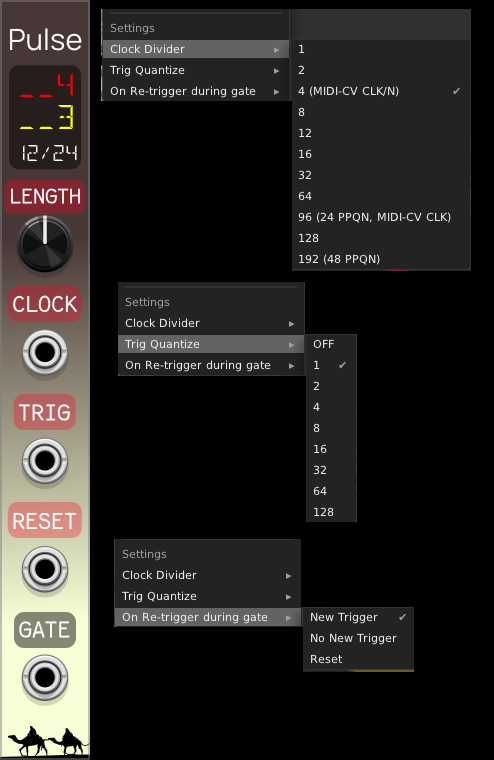
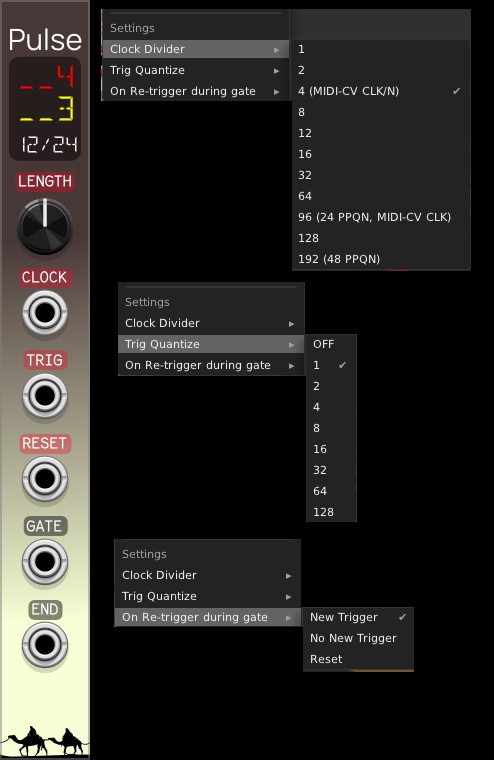
Pulse: add END output.

Changed region(s): [[0.0, 0.0605, 0.1822, 0.9382], [0.0, 0.9684, 0.0304, 0.9987]]

diff --git a/src/Pulse.cpp b/src/Pulse.cpp
@@ -20,14 +20,16 @@
 #include "components.hpp"
 #include "plugin.hpp"
 #include <string>
+#define TRIGGER_DURATION 1e-3f
 
 struct Pulse : Module {
   enum ParamIds { LEN, NUM_PARAMS };
   enum InputIds { TRIG, RESET, CLOCK, NUM_INPUTS };
-  enum OutputIds { GATE, NUM_OUTPUTS };
+  enum OutputIds { GATE, END, NUM_OUTPUTS };
   enum LightIds { NUM_LIGHTS };
   enum OnRetriggerActionIds { ON_RETRIGGER_NEW_TRIGGER, ON_RETRIGGER_NO_NEW_TRIGGER, ON_RETRIGGER_RESET};
   dsp::SchmittTrigger clockTrigger, trigTrigger[16], resetTrigger;
+  dsp::PulseGenerator endPulse[16];
   int pulseLength = 1;
   int pulseCountMod = 0;
   int clockDivider = 1;
@@ -45,11 +47,14 @@ struct Pulse : Module {
     configInput(TRIG, "TRIG");
     configInput(RESET, "RESET");
     configOutput(GATE, "GATE");
+    configOutput(END, "END");
     reset();
   }
 
   void process(const ProcessArgs &args) override {
     int channels = inputs[TRIG].getChannels();
+    outputs[GATE].setChannels(channels);
+    outputs[END].setChannels(channels);
     // LENGTH
     pulseLength = int(params[LEN].getValue());
     // CLOCK
@@ -61,13 +66,15 @@ struct Pulse : Module {
         for(int i=0; i < 16; i++) {
           // Reset the unclocked trigs that occured before the clock:
           unclockedTrigs[i] = false;
-          if (i <= channels && trigTrigger[i].process(inputs[TRIG].getPolyVoltage(i) >= 1.f)) {
+          if (i < channels && trigTrigger[i].process(inputs[TRIG].getNormalPolyVoltage(0.0, i) >= 1.f)) {
             // Handle trigs coincidential with the clock rising edge:
             trigQueue[i] = 0;
           }
           if (gateProgress[i] == pulseLength - 1) {
+            // Pulse finished:
             gateProgress[i] = -1;
           } else if (gateProgress[i] >= 0) {
+            // Pulse ongoing:
             gateProgress[i] += 1;
           }
           if (trigQueue[i] < 0) {
@@ -76,7 +83,7 @@ struct Pulse : Module {
             // Trig is scheduled, but its not time yet:
             trigQueue[i] -= 1;
           } else {
-            //Time to trig now:
+            //Time to trig now - trigQueue[i] == 0
             if (gateProgress[i] == -1 || \
                 onRetriggerAction == ON_RETRIGGER_NEW_TRIGGER) {
               gateProgress[i] = 0;
@@ -87,10 +94,18 @@ struct Pulse : Module {
           }
         }
       }
+      // END
+      if (clockCountMod == clockDivider - 1) {
+        for (int i=0; i<channels; i++) {
+          if (gateProgress[i] == pulseLength - 1) {
+            endPulse[i].trigger(TRIGGER_DURATION);
+          }
+        }
+      }
     } else {
       // Handle trigs that occur in between clock pulses:
       for (int i = 0; i < channels; i++) {
-        if (trigTrigger[i].process(inputs[TRIG].getPolyVoltage(i) >= 1.f)) {
+        if (i < channels && trigTrigger[i].process(inputs[TRIG].getNormalPolyVoltage(0.0, i) >= 1.f)) {
           trigQueue[i] = (trigQuantize < 1 ? 1 : trigQuantize) - (pulseCountMod == -1 ? 0 : pulseCountMod) - 1;
           unclockedTrigs[i] = trigQuantize == 0;
         }
@@ -100,10 +115,11 @@ struct Pulse : Module {
     if (resetTrigger.process(inputs[RESET].getNormalVoltage(0.0))) {
       reset();
     }
-    // GATE
-    outputs[GATE].setChannels(channels);
     for (int i=0; i < 16; i++) {
+      // GATE:
       outputs[GATE].setVoltage((unclockedTrigs[i] || gateProgress[i] >= 0) ? 10.f : 0.f, i);
+      // END trigger:
+      outputs[END].setVoltage(endPulse[i].process(args.sampleTime) ? 10.f : 0.f, i);
     }
   }
 
@@ -142,7 +158,7 @@ struct Pulse : Module {
 
 
 #define HP 3
-#define ROWS 14
+#define ROWS 256
 #define COLUMNS 1
 panel_grid<HP, ROWS, COLUMNS> pulseGrid;
 
@@ -187,9 +203,10 @@ struct PulseDisplay : public DynamicOverlay {
   PulseDisplay(int hp_width) : DynamicOverlay(hp_width) {}
 
   void draw(const DrawArgs &args) override {
-    Vec lengthTextLoc = pulseGrid.loc(1, 0).plus(Vec(0,8));
-    Vec pulseCountTextLoc = pulseGrid.loc(1, 0).plus(Vec(0,24));
-    Vec clockCountTextLoc = pulseGrid.loc(1,0).plus(Vec(0, 40));
+    Vec displayLoc = pulseGrid.loc(20,0).plus(Vec(0,6));
+    Vec lengthTextLoc = displayLoc.plus(Vec(0,8));
+    Vec pulseCountTextLoc = displayLoc.plus(Vec(0,24));
+    Vec clockCountTextLoc = displayLoc.plus(Vec(0, 40));
     if (module) {
       DynamicOverlay::clear();
       addText(pulsePad(module->pulseLength), 12, lengthTextLoc,
@@ -225,14 +242,16 @@ struct PulseDisplay : public DynamicOverlay {
 };
 
 struct PulseWidget : ModuleWidget {
-  Vec displayLoc = pulseGrid.loc(1,0);
-  Vec lenLoc = pulseGrid.loc(4,0);
+  Vec displayLoc = pulseGrid.loc(20,0).plus(Vec(0,6));
+  Vec lenLoc = pulseGrid.loc(76,0);
+  int o = 105;
+  int h = 28;
+  Vec clockLoc = pulseGrid.loc(o, 0);
+  Vec trigLoc = pulseGrid.loc(o+h, 0);
 
-  Vec clockLoc = pulseGrid.loc(6, 0);
-  Vec trigLoc = pulseGrid.loc(8, 0);
-
-  Vec resetLoc = pulseGrid.loc(10, 0);
-  Vec gateLoc = pulseGrid.loc(12,0);
+  Vec resetLoc = pulseGrid.loc(o+h*2, 0);
+  Vec gateLoc = pulseGrid.loc(o+h*3,0);
+  Vec endLoc = pulseGrid.loc(o+h*4,0);
   // Vec pulseDisplayTopLeft = pulseGrid.loc(, 0).minus(Vec(7,10));
   // Vec pulseDisplayBottomRight = pulseGrid.loc(3, 1).plus(Vec(3,10));
 
@@ -242,6 +261,7 @@ struct PulseWidget : ModuleWidget {
     addInput(createInputCentered<PJ301MPort>(resetLoc, module, Pulse::RESET));
     addInput(createInputCentered<PJ301MPort>(clockLoc, module, Pulse::CLOCK));
     addOutput(createOutputCentered<PJ301MPort>(gateLoc, module, Pulse::GATE));
+    addOutput(createOutputCentered<PJ301MPort>(endLoc, module, Pulse::END));
     setPanel(
              APP->window->loadSvg(asset::plugin(pluginInstance, "res/3hp.svg")));
     addParam(
@@ -253,16 +273,18 @@ struct PulseWidget : ModuleWidget {
       DynamicOverlay *overlay = new DynamicOverlay(HP);
       overlay->addText("Pulse", 20, Vec(mm2px(HP * HP_UNIT / 2), 25), WHITE,
                        CLEAR, MANROPE);
-      overlay->addText("LENGTH", 12, lenLoc.minus(Vec(0, 20)), WHITE,
-                       RED_TRANSPARENT);
-      overlay->addText("CLOCK", 13, clockLoc.minus(Vec(0, 20)), WHITE,
-                       RED_TRANSPARENT);
-      overlay->addText("TRIG", 13, trigLoc.minus(Vec(0, 20)), WHITE,
-                       RED_TRANSPARENT);
-      overlay->addText("RESET", 13, resetLoc.minus(Vec(0, 20)), WHITE,
-                       RED_TRANSPARENT);
-      overlay->addText("GATE", 13, gateLoc.minus(Vec(0, 20)), WHITE,
-                       BLACK_TRANSPARENT);
+      overlay->addText("LENGTH", 9, lenLoc.minus(Vec(0, 20)), WHITE,
+                       RED_TRANSPARENT, FANTASQUE, 0);
+      overlay->addText("CLOCK", 9, clockLoc.minus(Vec(0, 15)), WHITE,
+                       RED_TRANSPARENT, FANTASQUE, 0);
+      overlay->addText("TRIG", 9, trigLoc.minus(Vec(0, 15)), WHITE,
+                       RED_TRANSPARENT, FANTASQUE, 0);
+      overlay->addText("RESET", 9, resetLoc.minus(Vec(0, 15)), WHITE,
+                       RED_TRANSPARENT, FANTASQUE, 0);
+      overlay->addText("GATE", 9, gateLoc.minus(Vec(0, 15)), WHITE,
+                       BLACK_TRANSPARENT, FANTASQUE, 0);
+      overlay->addText("END", 9, endLoc.minus(Vec(0, 15)), WHITE,
+                       BLACK_TRANSPARENT, FANTASQUE, 0);
       buffer->addChild(overlay);
       addChild(buffer);
       overlay->addBox(displayLoc.minus(Vec(18,8)),

diff --git a/src/components.hpp b/src/components.hpp
@@ -70,6 +70,7 @@ typedef struct {
   NVGcolor color;
   int font;
   NVGcolor bgColor;
+  float padding;
 } draw_text;
 
 typedef struct {
@@ -89,12 +90,16 @@ struct DynamicOverlay : rack::TransparentWidget {
     box.size = mm2px(Vec(hp_width * HP_UNIT, HEIGHT));
   }
   void addText(std::string text, int size, rack::Vec px, NVGcolor color,
+               NVGcolor bgColor, int font, float padding) {
+    text_calls.push_back({text, size, px, color, font, bgColor, padding});
+  }
+  void addText(std::string text, int size, rack::Vec px, NVGcolor color,
                NVGcolor bgColor, int font) {
-    text_calls.push_back({text, size, px, color, font, bgColor});
+    text_calls.push_back({text, size, px, color, font, bgColor, 1.0});
   }
   void addText(std::string text, int size, rack::Vec px, NVGcolor color,
                NVGcolor bgColor) {
-    addText(text, size, px, color, bgColor, FANTASQUE);
+    addText(text, size, px, color, bgColor, FANTASQUE, 1);
   }
   void addBox(rack::Vec start, rack::Vec end, NVGcolor color, int roundness) {
     box_calls.push_back({start, end, color, roundness});
@@ -129,10 +134,17 @@ struct DynamicOverlay : rack::TransparentWidget {
     // draw background:
     if (dt.bgColor.a != 0) {
       nvgFillColor(args.vg, dt.bgColor);
-      nvgRoundedRect(args.vg, (int)bounds[0] - 2 - x_offset, (int)bounds[1] - 2,
-                     (int)(bounds[2] - bounds[0]) + 5,
-                     (int)(bounds[3] - bounds[1]) + 5,
-                     ((int)(bounds[3] - bounds[1]) - 1) / 2 - 1);
+      if (dt.padding < 1) {
+        nvgRoundedRect(args.vg, (int)bounds[0] - 1 - x_offset, (int)bounds[1],
+                       (int)(bounds[2] - 1 - bounds[0]) + 5,
+                       (int)(bounds[3] - 4 - bounds[1]) + 5,
+                       ((int)(bounds[3] - bounds[1]) - 1) / 2 - 1);
+      } else {
+        nvgRoundedRect(args.vg, (int)bounds[0] - 2 - x_offset, (int)bounds[1] - 2,
+                       (int)(bounds[2] - bounds[0]) + 5,
+                       (int)(bounds[3] - bounds[1]) + 5,
+                       ((int)(bounds[3] - bounds[1]) - 1) / 2 - 1);
+      }
       nvgFill(args.vg);
     }
     // draw text:

diff --git a/README.md b/README.md
@@ -229,50 +229,66 @@ You can download this as a [VCV Rack selection
 ### Pulse
 
 Pulse is a bank of 16 pulse generators: they turn triggers into gates
-with a clocked length. It has 16 independent trigger inputs (`TRIG`)
-and 16 gate outputs (`GATE`) via polyphonic jacks. A single `LENGTH`
-parameter controls the length of each gate (1 -> 128). Although the
-gates must all share the same length, they are triggered and held
-independently. Use the external `CLOCK` signal, and the built-in clock
-divider, and pulse will count the exact amount of time to keep each
-gate open. A shared `RESET` input will immediately reset all of the
-gates and the clock.
+with a single shared clocked length. Using 16 channel polyphony, Pulse
+has 16 `TRIG` inputs, 16 `GATE` outputs, and 16 `END` outputs. The
+triggers are quantized to the incoming clock with configurable
+resolution. The `GATE` outputs are held high for the duration of each
+independent pulse. The `END` outputs are triggered on the clock cycle
+immediately preceding the end of each gate. A single `LENGTH`
+parameter controls the length (1 -> 128) of each gate. All of the
+gates must share the same length, however they are triggered and held
+independently of each other. Use the external `CLOCK` signal, and the
+built-in clock divider, and pulse will count the exact amount of time
+to keep each gate open at different times. A shared `RESET` input will
+immediately reset all of the gates and the clock.
 
 ![Pulse](screenshots/Pulse.png)
 
 Pulse is kind of like a smaller version of [Transport](#Transport),
 but with the addition of 16 independent triggers and gates. It can
-count clock cycles, like bars of music, or individual beats. You can
-use it as the sustain input to an envelope generator, or a gate input
-on a sampler (The pulse itself is always a square wave). The gate
-interval is configured by the shared `LENGTH` parameter knob. It has
-an internal clock divider to configure any common clock resolution.
+count clock cycles, like bars of music, or individual beats. It holds
+the `GATE` outputs high for the duration you choose. For example, you
+can use it as the sustain input to an envelope generator, or as a gate
+input on a sampler. (The pulse itself is always a square wave). The
+gate interval is configured by the shared `LENGTH` parameter knob. It
+has an internal clock divider to configure any common clock
+resolution.
 
 The display on Pulse has three rows:
 
  1. The length parameter used for all of the gates (in red).
- 2. The current progress of the gates being held: in yellow, if there
-    is only one gate active (on any output); in pink, if there is more
-    than one gate active (only the first displayed).
+ 2. The current progress of the top most gate being held. If there is
+    only one gate active (on any output) the display is yellow; If
+    there is more than one gate active, the display is pink (but only
+    shows one counter displaying the lowest numbered active channel).
  3. The clock counter / clock divider (in white). (Only visisble when
     the clock divider is greater than 1.)
+
+The `END` output triggers at the start of the final clock cycle of the
+pulse gate, to signal that the pulse is scheduled to end on the next
+clock cycle. You can daisy chain several Pulse modules together, to
+fire sequentially, by wiring the `END` output of one into the `TRIG`
+input of another (each Pulse module must share the same clock source,
+but each can have different lengths). If you were to self-patch the
+`END` output back into the `TRIG` input of the same Pulse module, the
+pulse gate would loop forever.
 
 In the menu, the triggers can be quantized to the next bar, or x2, x4,
 x8 etc. With quantization turned on, incoming trigs will wait to start
 the gate on the clock. With quantization turned `OFF`, triggers will
 fire and hold gates immediately, even before the next clock phase, and
-then hold normally for the entire gate length in addition. Thus, with
-quantization turned off, the gate will always be a little bit longer
-than the length set. For perfect divisions of your clock, always use
-quantization.
+then hold normally for the entire gate length in addition to that.
+Thus, with quantization turned `OFF`, the gate will always be a little
+bit longer than the length set. For perfect divisions of your clock,
+always use quantization.
 
 You can configure what to do on a re-trigger event for a gate that has
-already been triggered. There are three options for `On Re-trigger
-during gate` option in the menu:
+already been triggered and with gate already in progress: there are
+three choices for the `On Re-trigger during gate` option in the menu:
 
- * `New Trigger` - Continue the gate starting at fresh count of 1.
+ * `New Trigger` - Continue the gate and reset the count to 1.
  * `No New Trigger` - Ignore the new trigger, keeping the original count.
- * `Reset` - Ignore the new trigger, and reset the existing gate on
+ * `Reset` - Ignore the new trigger, but reset the existing gate on
    the next clock phase. (This turns each trig input into a toggle
    switch with clocked time resolution.)
 
@@ -286,5 +302,4 @@ time and show it as exactly 8 seconds.
 
 You can download this as a [VCV Rack selection
 `.vcvs`](https://github.com/EnigmaCurry/EnigmaCurry-vcv-pack/raw/v2/patches/Selections/Pulse.vcvs)
-
 
